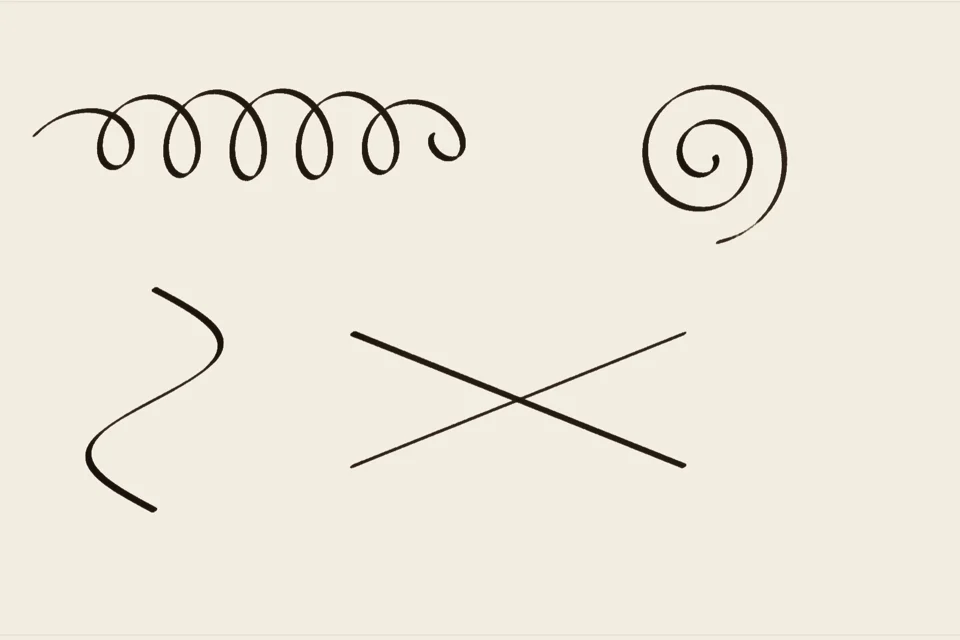
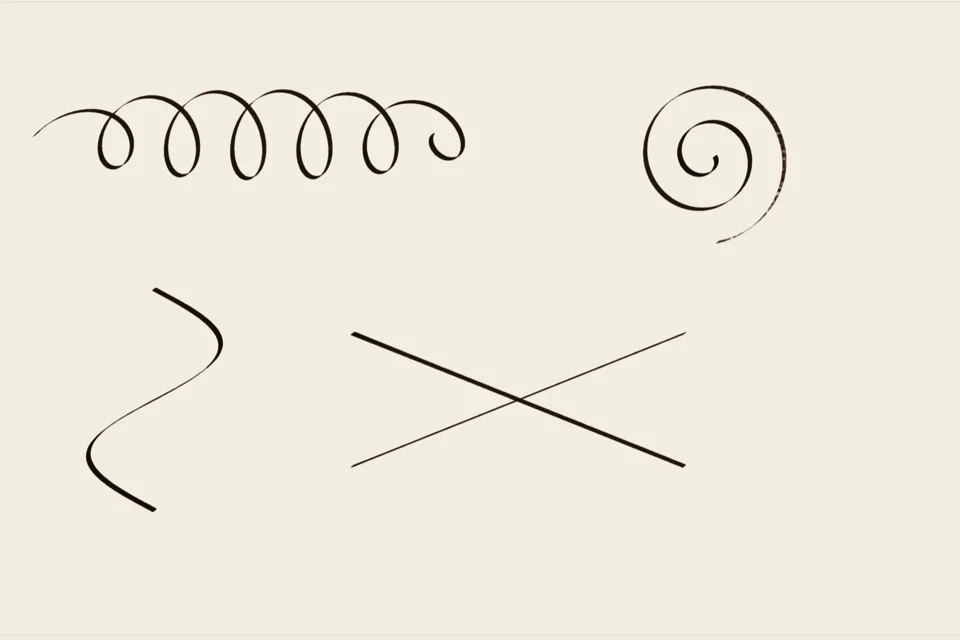
Ink: render the ink's true mass per pixel, not a threshold; keep the pigment where it was laid
From an independent review (Fable), measured by read-back profiles at 1x and 2x: the
soft-threshold render discarded the sweep's sub-pixel coverage (every edge a stair, every
hairline fattened to a 2-px bar, overlaps binarised); levelling carried pigment ~3 texels
(the bleed, twice as wide at 1x); paper noise sat below the pixel grid (edge jitter). Now
darkness is proportional to mass until a coat saturates, levelling is ~10x smaller,
noise cells are floored at 2.5 device px with a long anisotropic fibre, and the
permeability swing is halved. Edges are two-sided ramps; hairlines are true hairlines.

Claude-Session: https://claude.ai/code/session_01AVocxv6hjz2Gj8s9KXjVNV

diff --git a/playground/kit/medium.js b/playground/kit/medium.js
@@ -28,10 +28,14 @@ float lay(vec4 s, vec4 pap) {
 const PAPER_FS = `#version 300 es
 precision highp float; in vec2 vUV; out vec4 o; uniform vec2 uRes; uniform float uSeed, uPx, uRough;
 ${NOISE}
+// a cell c CSS px across, never finer than 2.5 device px (a texture sampled below its own grid is only sparkle)
+float N(vec2 q, vec2 c, float s){ return vn(q / max(c / uPx, vec2(2.5)) + s); }
 void main(){
-  vec2 p = vUV * uRes * uPx;
-  float t = .5 * vn(p / vec2(1.9, 1.5) + uSeed) + .3 * vn(p / .8 + uSeed * 2.) + .2 * vn(p / 4.5 + uSeed * 3.);
-  o = vec4(mix(.5, t, uRough), vn(p / .55 + 71. + uSeed), 0, 0);
+  vec2 q = vUV * uRes;
+  float t = .5 * N(q, vec2(1.9, 1.5), uSeed) + .3 * N(q, vec2(.8), uSeed * 2.) + .2 * N(q, vec2(4.5), uSeed * 3.);
+  vec2 f = mat2(.94, .34, -.34, .94) * q;                         // the fibres lie long, a little off the horizontal
+  float fib = .6 * N(f, vec2(3.4, .9), 71. + uSeed) + .4 * N(f, vec2(9., 2.4), 113. + uSeed);
+  o = vec4(mix(.5, t, uRough), fib, 0, 0);
 }`;
 
 // one step of the nib's sweep: the quad [A0, A1, B1, B0] its edge passes over. The sides are anti-aliased; the two
@@ -65,7 +69,7 @@ vec2 at(vec2 uv) { vec4 w = texture(uWet, uv), s = texture(uStroke, uv); float f
   return vec2(max(w.r, f) + .3 * min(w.r, f), max(w.g, s.g * uPour)); }
 void main(){
   vec2 c = at(vUV); float V = c.x, M = min(c.y, 1.), dV = 0., Mn = 0.;
-  float perm = .55 + .9 * texture(uPaper, vUV).g;                       // fibre: the paper drinks unevenly
+  float perm = .7 + .6 * texture(uPaper, vUV).g;                       // fibre: the paper drinks unevenly
   for (int k = 0; k < 8; k++) {
     vec2 off = vec2(k < 4 ? (k == 0 ? 1. : k == 1 ? -1. : 0.) : (k == 4 || k == 6 ? 1. : -1.), k < 4 ? (k == 2 ? 1. : k == 3 ? -1. : 0.) : (k < 6 ? 1. : -1.));
     vec2 n = at(vUV + off * uTexel); float nM = min(n.y, 1.), wgt = k < 4 ? 1. : .5;
@@ -82,15 +86,16 @@ void main(){
   oDry = texture(uDry, vUV) + vec4(settle, 0, 0, 0);
 }`;
 
-// what shows is the ink's surface: a soft threshold of its volume, so its edge is a level set (smooth, merged) and
-// it is as dark as it is deep
+// what shows is the ink that lies in each pixel: a pixel the edge crosses is part-dark, a hairline is a thinner coat,
+// and a full coat saturates. The darkness is the mass until then, not a level set of it (a threshold throws away the
+// sweep's sub-pixel coverage and turns every edge back into a stair). Deeper ink is a little darker.
 const RENDER_FS = `#version 300 es
 precision highp float; in vec2 vUV; out vec4 o; uniform sampler2D uDry, uWet, uPaper; uniform vec3 uPaperRGB, uK; uniform float uBase;
 void main(){
   vec2 uv = vec2(vUV.x, 1. - vUV.y);                 // the simulation runs y down, the screen's framebuffer y up
   float V = texture(uDry, uv).r + texture(uWet, uv).r, f = texture(uPaper, uv).g;
-  // ink is ink-coloured wherever it lies (a hairline is as dark as a stroke, only narrower); deeper ink is a little darker
-  float d = smoothstep(.025, .11, V + (f - .5) * .03) * (uBase + .45 * V);
+  float cov = min(1., V * (.85 + .3 * f) / .55);     // the fibre moves the edge a fraction of a pixel either way
+  float d = cov * (uBase + .45 * min(V, 1.5));
   o = vec4(uPaperRGB * exp(-uK * d), 1);
 }`;
 
@@ -115,7 +120,7 @@ export function createMedium(canvas, { dpr = Math.min(2, devicePixelRatio || 1),
     gl.vertexAttribPointer(a, 2, gl.FLOAT, false, 0, 0); gl.uniform4f(pr.u('uRect'), ...rect); gl.uniform2f(pr.u('uRes'), W, H); gl.drawArrays(gl.TRIANGLE_STRIP, 0, 4); };
   const bind = (pr, name, unit, t) => { gl.activeTexture(gl.TEXTURE0 + unit); gl.bindTexture(gl.TEXTURE_2D, t); gl.uniform1i(pr.u(name), unit); };
   const clearT = f => { gl.bindFramebuffer(gl.FRAMEBUFFER, f); gl.clearColor(0, 0, 0, 0); gl.clear(gl.COLOR_BUFFER_BIT); };
-  const S = { rough, ink, paper, rim: 0, density: 1, base: .62, drying: 500, level: .08, creep: .12 };
+  const S = { rough, ink, paper, rim: 0, density: 1, base: .62, drying: 500 };
 
   function makePaper() { gl.viewport(0, 0, W, H); gl.bindFramebuffer(gl.FRAMEBUFFER, F.paper); gl.disable(gl.BLEND); gl.useProgram(P.paper.p);
     gl.uniform1f(P.paper.u('uSeed'), seed % 97); gl.uniform1f(P.paper.u('uPx'), 1 / dpr); gl.uniform1f(P.paper.u('uRough'), S.rough); run(P.paper); }
@@ -150,8 +155,10 @@ export function createMedium(canvas, { dpr = Math.min(2, devicePixelRatio || 1),
     gl.uniform3f(pr.u('uPaperRGB'), ...S.paper.map(c => c / 255)); gl.uniform1f(pr.u('uBase'), S.base);
     gl.uniform3f(pr.u('uK'), ...S.ink.map((c, i) => -Math.log(Math.max(.02, c / S.paper[i])) / S.density)); run(pr);
   }
-  // how wet the ink is, 0 (a dry, quick ink: barely moves) .. 1 (a wet, slow ink: merges, softens, creeps)
-  function wetness(w) { S.creep = .05 + .25 * w; S.level = .05 + .07 * w; S.drying = 250 + 1600 * w * w; }
+  // how wet the ink is, 0 (a dry, quick ink: barely moves) .. 1 (a wet, slow ink: merges, softens, creeps).
+  // The pigment hardly travels on sized paper: the level is kept small, or a hairline is spread over three pixels
+  // and reads grey, and a broad stroke grows a halo wider than its own anti-aliasing
+  function wetness(w) { S.creep = .03 + .2 * w; S.level = .002 + .02 * w; S.drying = 250 + 1600 * w * w; }
   wetness(.25);
   return { wetness, gl, W, H, dpr, settings: S, sweep, step, render, clear, makePaper, commit() {} };
 }
